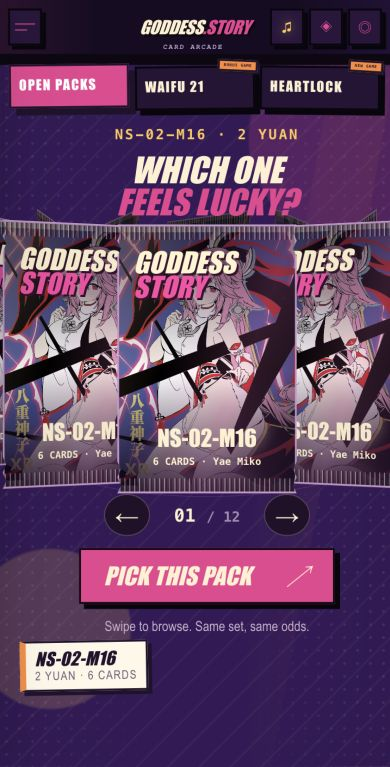
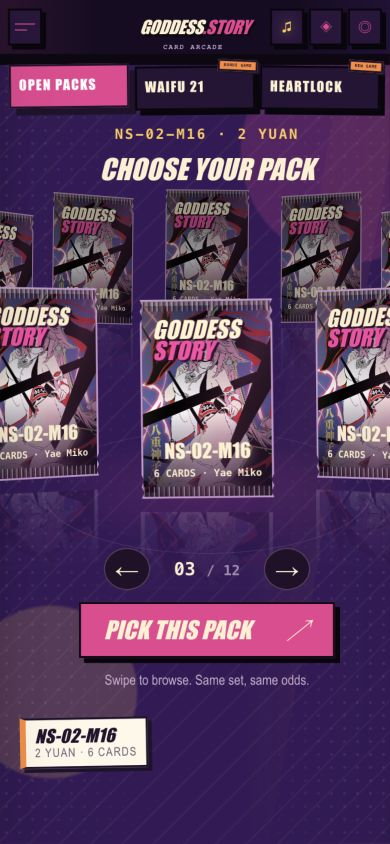
Fix touch capture and add spaced floating booster ring

diff --git a/app/pack-carousel.tsx b/app/pack-carousel.tsx
@@ -8,11 +8,12 @@ type Props = { art: string; character: string; setName: string; cost: number; ca
 export function PackCarousel({ art, character, setName, cost, cards, onChoose, onTick }: Props) {
   const [position, setPosition] = useState(0);
   const [choosing, setChoosing] = useState(false);
+  const ring = useRef<HTMLDivElement>(null);
   const current = useRef(0);
   const frame = useRef(0);
   const chosen = useRef(false);
   const timer = useRef<ReturnType<typeof setTimeout> | null>(null);
-  const drag = useRef<{ id: number; x: number; start: number; lastX: number; time: number; speed: number; moved: boolean; step: number } | null>(null);
+  const drag = useRef<{ id: number; x: number; start: number; lastX: number; time: number; speed: number; moved: boolean; step: number; packIndex: number | null } | null>(null);
   const suppress = useRef(false);
   const lastTick = useRef(0);
   useEffect(() => () => { cancelAnimationFrame(frame.current); if (timer.current) clearTimeout(timer.current); }, []);
@@ -23,13 +24,15 @@ export function PackCarousel({ art, character, setName, cost, cards, onChoose, o
   }
   function settle(target: number) {
     cancelAnimationFrame(frame.current);
-    if (window.matchMedia("(prefers-reduced-motion: reduce)").matches) { update(target); return; }
+    if (window.matchMedia("(prefers-reduced-motion: reduce)").matches) { update(target); ring.current?.style.setProperty("--spin-lean", "0deg"); return; }
     const from = current.current;
     let start: number | undefined;
     function step(now: number) {
       start ??= now;
-      const t = Math.min(1, (now - start) / 340);
-      update(from + (target - from) * (1 - Math.pow(1 - t, 3)));
+      const t = Math.min(1, (now - start) / 520);
+      const spring = t === 1 ? 1 : 1 - Math.exp(-7 * t) * Math.cos(8 * t);
+      update(from + (target - from) * spring);
+      ring.current?.style.setProperty("--spin-lean", `${Math.max(-8, Math.min(8, (target - from) * 4)) * (1 - t)}deg`);
       if (t < 1) frame.current = requestAnimationFrame(step);
     }
     frame.current = requestAnimationFrame(step);
@@ -42,39 +45,50 @@ export function PackCarousel({ art, character, setName, cost, cards, onChoose, o
   }
   function down(event: PointerEvent<HTMLDivElement>) {
     if (!event.isPrimary || event.button !== 0 || chosen.current) return;
+    event.preventDefault();
     cancelAnimationFrame(frame.current); suppress.current = false;
-    drag.current = { id: event.pointerId, x: event.clientX, start: current.current, lastX: event.clientX, time: event.timeStamp, speed: 0, moved: false, step: Math.max(90, Math.min(180, event.currentTarget.clientWidth * .24)) };
+    const packButton = (event.target as HTMLElement).closest<HTMLElement>("[data-pack-index]");
+    drag.current = { id: event.pointerId, x: event.clientX, start: current.current, lastX: event.clientX, time: event.timeStamp, speed: 0, moved: false, step: Math.max(100, Math.min(210, event.currentTarget.clientWidth * .34)), packIndex: packButton ? Number(packButton.dataset.packIndex) : null };
+    // Claim the ring immediately; touch browsers otherwise implicitly capture a child.
+    event.currentTarget.setPointerCapture(event.pointerId);
+    ring.current?.setAttribute("data-dragging", "");
   }
   function move(event: PointerEvent<HTMLDivElement>) {
     const g = drag.current;
     if (!g || g.id !== event.pointerId) return;
     const dx = event.clientX - g.x;
-    if (Math.abs(dx) > 6) { g.moved = true; suppress.current = true; event.currentTarget.setPointerCapture(event.pointerId); }
+    if (Math.abs(dx) > 6) { g.moved = true; suppress.current = true; }
     if (!g.moved) return;
     g.speed = -(event.clientX - g.lastX) / Math.max(1, event.timeStamp - g.time) / g.step;
     g.lastX = event.clientX; g.time = event.timeStamp;
     update(g.start - dx / g.step);
+    ring.current?.style.setProperty("--spin-lean", `${Math.max(-10, Math.min(10, g.speed * 650))}deg`);
   }
   function up(event: PointerEvent<HTMLDivElement>, cancelled = false) {
     const g = drag.current;
     if (!g || g.id !== event.pointerId) return;
     drag.current = null;
+    ring.current?.removeAttribute("data-dragging");
     if (event.currentTarget.hasPointerCapture(event.pointerId)) event.currentTarget.releasePointerCapture(event.pointerId);
     if (g.moved || cancelled) settle(carouselRelease(current.current, !cancelled && event.timeStamp - g.time < 80 ? g.speed : 0));
+    else if (g.packIndex !== null) {
+      const offset = carouselOffset(g.packIndex, current.current);
+      if (Math.abs(offset) < .5) choose(); else settle(current.current + offset);
+    }
   }
   const selected = ((Math.round(position) % CAROUSEL_PACKS) + CAROUSEL_PACKS) % CAROUSEL_PACKS;
   return <section className={`booster-carousel ${choosing ? "is-chosen" : ""}`} aria-label="Choose a booster from the carousel">
-    <div className="carousel-heading"><small>{setName} · {cost} YUAN</small><h1>WHICH ONE<br /><em>FEELS LUCKY?</em></h1></div>
-    <div className="carousel-ring" onPointerDown={down} onPointerMove={move} onPointerUp={event => up(event)} onPointerCancel={event => up(event, true)} onLostPointerCapture={event => { if (drag.current) up(event, true); }} onDragStart={event => event.preventDefault()}>
+    <div className="carousel-heading"><small>{setName} · {cost} YUAN</small><h1>CHOOSE YOUR PACK</h1></div>
+    <div className="carousel-ring" ref={ring} onPointerDown={down} onPointerMove={move} onPointerUp={event => up(event)} onPointerCancel={event => up(event, true)} onLostPointerCapture={event => { if (event.target === event.currentTarget && drag.current) up(event, true); }} onDragStart={event => event.preventDefault()} onContextMenu={event => event.preventDefault()}>
       <div className="carousel-floor" aria-hidden="true" />
       {Array.from({ length: CAROUSEL_PACKS }, (_, index) => {
         const offset = carouselOffset(index, position), angle = offset * Math.PI * 2 / CAROUSEL_PACKS, depth = Math.cos(angle);
-        return <button key={index} className={`carousel-pack ${selected === index ? "is-front" : ""}`} aria-label={`Booster ${index + 1}${selected === index ? ", pick this pack" : ", bring to front"}`} aria-pressed={selected === index} disabled={choosing} style={{
-          "--ring-x": Math.sin(angle), "--ring-depth": depth - 1, "--ring-turn": `${-offset * 22}deg`, "--pack-light": .42 + (depth + 1) * .29, zIndex: Math.round((depth + 1) * 100),
-        } as CSSProperties} onClick={() => { if (suppress.current) { suppress.current = false; return; } if (selected === index) choose(); else settle(current.current + offset); }} onKeyDown={event => {
+        return <button key={index} data-pack-index={index} className={`carousel-pack ${selected === index ? "is-front" : ""}`} aria-label={`Booster ${index + 1}${selected === index ? ", pick this pack" : ", bring to front"}`} aria-pressed={selected === index} disabled={choosing} style={{
+          "--ring-x": Math.sin(angle), "--ring-depth": depth - 1, "--ring-turn": `${-Math.sin(angle) * 52}deg`, "--float-delay": `${-index * .43}s`, "--pack-light": .62 + (depth + 1) * .19, zIndex: Math.round((depth + 1) * 100),
+        } as CSSProperties} onClick={event => { if (event.detail !== 0 || suppress.current) { suppress.current = false; return; } if (selected === index) choose(); else settle(current.current + offset); }} onKeyDown={event => {
           if (event.key === "ArrowLeft" || event.key === "ArrowRight") { event.preventDefault(); settle(Math.round(current.current) + (event.key === "ArrowRight" ? 1 : -1)); }
         }}>
-          <span className="carousel-wrapper"><img src={art} alt="" draggable={false} /><span className="carousel-foil" /><span className="carousel-title">GODDESS<br /><b>STORY</b></span><span className="carousel-edition">{setName}<small>{cards} CARDS · {character}</small></span></span>
+          <span className="carousel-reflection" aria-hidden="true"><img src={art} alt="" draggable={false} /></span><span className="carousel-float"><span className="carousel-wrapper"><img src={art} alt="" draggable={false} /><span className="carousel-foil" /><span className="carousel-title">GODDESS<br /><b>STORY</b></span><span className="carousel-edition">{setName}<small>{cards} CARDS · {character}</small></span></span></span>
         </button>;
       })}
     </div>

diff --git a/app/globals.css b/app/globals.css
@@ -5203,9 +5203,9 @@ body {
 .pack-stock { position: absolute; inset: 0; z-index: 0; border-radius: 12px; box-shadow: 2px 2px 0 #b9abbf, 3px 3px 0 #282030, 4px 4px 0 #d2c7d6; pointer-events: none; }
 .pack-peek-edges { position: absolute; inset: 0; z-index: 2; opacity: var(--peek); pointer-events: none; transition: opacity 180ms; }
 .pack-peek-edges i { position: absolute; inset: 0; border-radius: 12px; border: 1px solid var(--edge-color); background: #ded5e2;
-  border-left-width: max(1px,calc(var(--peek-x) * 4px)); border-right-width: max(1px,calc(var(--peek-x) * -4px));
-  border-top-width: max(1px,calc(var(--peek-y) * 4px)); border-bottom-width: max(1px,calc(var(--peek-y) * -4px));
-  transform: translate(calc(var(--peek-x) * var(--edge) * -6px),calc(var(--peek-y) * var(--edge) * -6px)); box-shadow: 0 0 2px #130b1b55;
+  border-left-width: max(.5px,calc(var(--peek-x) * 1.2px)); border-right-width: max(.5px,calc(var(--peek-x) * -1.2px));
+  border-top-width: max(.5px,calc(var(--peek-y) * 1.2px)); border-bottom-width: max(.5px,calc(var(--peek-y) * -1.2px));
+  transform: translate(calc(var(--peek-x) * var(--edge) * -2.2px),calc(var(--peek-y) * var(--edge) * -2.2px)); box-shadow: 0 0 1px #130b1b44;
   transition: transform 260ms cubic-bezier(.18,.85,.25,1);
 }
 .tactile-stack[data-touching] .pack-peek-edges i { transition-duration: 60ms; }
@@ -5264,17 +5264,23 @@ body {
 .booster-carousel { width: min(1200px,100vw); text-align: center; position: relative; align-self: center; padding: 12px 0 20px; }
 .carousel-heading { position: relative; z-index: 1; pointer-events: none; }
 .carousel-heading small { color: var(--ui-yellow); font: 700 14px/1.4 monospace; letter-spacing: .13em; }
-.carousel-heading h1 { font: italic 900 clamp(32px,4vw,56px)/.94 Impact,sans-serif; color: var(--ui-cream); margin: 10px 0 0; }
+.carousel-heading h1 { font: italic 900 clamp(26px,3vw,40px)/1.1 Impact,sans-serif; color: var(--ui-cream); margin: 10px 0 0; }
 .carousel-heading em { color: var(--ui-pink); font-style: inherit; }
-.carousel-ring { --radius: min(38vw,420px); position: relative; height: clamp(230px,40svh,410px); perspective: 1100px; touch-action: pan-y; user-select: none; -webkit-user-select: none; cursor: grab; }
+.carousel-ring { --radius: min(62vw,640px); --spin-lean: 0deg; position: relative; height: clamp(285px,46svh,460px); perspective: 1200px; touch-action: none; user-select: none; -webkit-user-select: none; -webkit-touch-callout: none; cursor: grab; }
+.carousel-ring * { touch-action: none; -webkit-user-drag: none; }
 .carousel-ring:active { cursor: grabbing; }
 .carousel-floor { position: absolute; inset: 55% 8% -12%; background: radial-gradient(ellipse,#f947a029,transparent 65%); transform: rotateX(60deg); border: 1px solid #b88ab330; border-radius: 50%; pointer-events: none; }
-.mode-altar .carousel-pack { position: absolute; top: 51%; left: 50%; width: clamp(140px,19vw,230px); aspect-ratio: 2/3; padding: 0; border: 0; background: none; box-shadow: none; border-radius: 0; cursor: grab;
-  transform: translate(-50%,-50%) translate3d(calc(var(--ring-x) * var(--radius)),calc(var(--ring-depth) * 35px),calc(var(--ring-depth) * var(--radius))) rotateY(var(--ring-turn));
+.mode-altar .carousel-pack { position: absolute; top: 60%; left: 50%; width: clamp(125px,16vw,190px); aspect-ratio: 2/3; padding: 0; border: 0; background: none; box-shadow: none; border-radius: 0; cursor: grab;
+  transform: translate(-50%,-50%) translate3d(calc(var(--ring-x) * var(--radius)),calc(var(--ring-depth) * 110px),calc(var(--ring-depth) * var(--radius))) rotateY(var(--ring-turn)) rotateZ(var(--spin-lean));
   filter: brightness(var(--pack-light)); transition: none; will-change: transform;
 }
 .carousel-wrapper { display: block; position: absolute; inset: 0; overflow: hidden; background: #6b2855; border: 2px solid #c898cf; box-shadow: 3px 10px 20px #05020980; clip-path: polygon(0 0,100% 0,98% 3%,100% 6%,98% 9%,100% 12%,100% 88%,98% 91%,100% 94%,98% 97%,100% 100%,0 100%,2% 97%,0 94%,2% 91%,0 88%,0 12%,2% 9%,0 6%,2% 3%); }
 .carousel-wrapper > img { width: 100%; height: 100%; object-fit: cover; pointer-events: none; }
+.carousel-float { position: absolute; inset: 0; pointer-events: none; animation: booster-float 3.8s ease-in-out var(--float-delay) infinite alternate; }
+@keyframes booster-float { from { transform: translateY(-4px) rotate(-.7deg); } to { transform: translateY(4px) rotate(.7deg); } }
+.carousel-ring[data-dragging] .carousel-float { animation-play-state: paused; }
+.carousel-reflection { position: absolute; top: calc(100% + 10px); height: 48%; width: 100%; left: 0; overflow: hidden; opacity: .13; pointer-events: none; mask-image: linear-gradient(#000,transparent 85%); -webkit-mask-image: linear-gradient(#000,transparent 85%); }
+.carousel-reflection img { display: block; width: 100%; transform: scaleY(-1); margin-top: -78%; }
 .carousel-foil { position: absolute; inset: 0; background: linear-gradient(110deg,#ffd38a33,transparent 35%,#ff78c533 65%,#20112788),linear-gradient(0deg,#15091fe8,transparent 45%,#15091faa); pointer-events: none; }
 .carousel-wrapper::after { content: ""; position: absolute; inset: 0; background: repeating-linear-gradient(90deg,#fff6 0 1px,#36102788 1px 3px,transparent 3px 5px); clip-path: polygon(0 0,100% 0,100% 5%,0 5%,0 95%,100% 95%,100% 100%,0 100%); }
 .carousel-title { position: absolute; top: 9%; left: 8%; text-align: left; color: #fff4cf; font: italic 900 clamp(25px,3.5vw,42px)/.88 Impact,sans-serif; text-shadow: 2px 2px #38102e; }
@@ -5293,11 +5299,11 @@ body {
 @keyframes carousel-pick { to { transform: translateY(-12px) scale(1.15); filter: brightness(1.15); } }
 @media (max-width:700px) {
   .booster-carousel { padding: 0 0 14px; }
-  .carousel-ring { --radius: 62vw; height: clamp(215px,36svh,320px); }
-  .mode-altar .carousel-pack { width: min(46vw,calc((100svh - 370px) * .67)); min-width: 126px; }
-  .carousel-heading h1 { font-size: 34px; }
-  .carousel-title { font-size: 28px; }.carousel-edition { font-size: 23px; }
+  .carousel-ring { --radius: 90vw; height: clamp(270px,43svh,370px); }
+  .mode-altar .carousel-pack { width: min(34vw,calc((100svh - 360px) * .52)); min-width: 108px; }
+  .carousel-heading h1 { font-size: 28px; }
+  .carousel-title { font-size: 24px; }.carousel-edition { font-size: 20px; }
   .carousel-controls { margin-top: 0; gap: 24px; }
   .mode-altar .carousel-choose { font-size: 24px; padding-block: 14px; }
 }
-@media (prefers-reduced-motion:reduce) { .is-chosen .carousel-pack.is-front .carousel-wrapper { animation: none; } }
+@media (prefers-reduced-motion:reduce) { .carousel-float, .is-chosen .carousel-pack.is-front .carousel-wrapper { animation: none; } }

diff --git a/docs/releases/v0.2.0.md b/docs/releases/v0.2.0.md
@@ -2,6 +2,8 @@
 
 A little more ceremony before the rip.
 
+Updated September 7: corrected mobile pointer capture, spaced the packs farther apart, added floating wrappers, reflections and spring settling, and reduced peek-edge thickness. The existing 0.2.0 download now includes these fixes.
+
 ## Booster carousel
 
 Browse a looping ring of twelve boosters. Drag to spin, let go to coast into a slot, or tap a side pack to bring it forward. Pick the front pack to lift it out and open it. Changed your mind? Go back to the ring before tearing.
@@ -35,6 +37,6 @@ npm run dev
 
 For Docker, rebuild with `docker compose up --build`. Existing branding and data-source configuration still work. Browser saves use the same keys.
 
-Checks: lint, 33 logic/data/source tests, production build, two server-rendering tests, and a browser walkthrough at phone size. This is not a physical-iPhone certification.
+Checks: lint, 34 logic/data/source tests, production build, two server-rendering tests, and a browser walkthrough at phone size. This is not a physical-iPhone certification.
 
 Unofficial, non-commercial 18+ fan project. Third-party artwork retains its original ownership; this release grants no rights to it. See NOTICE.md.
